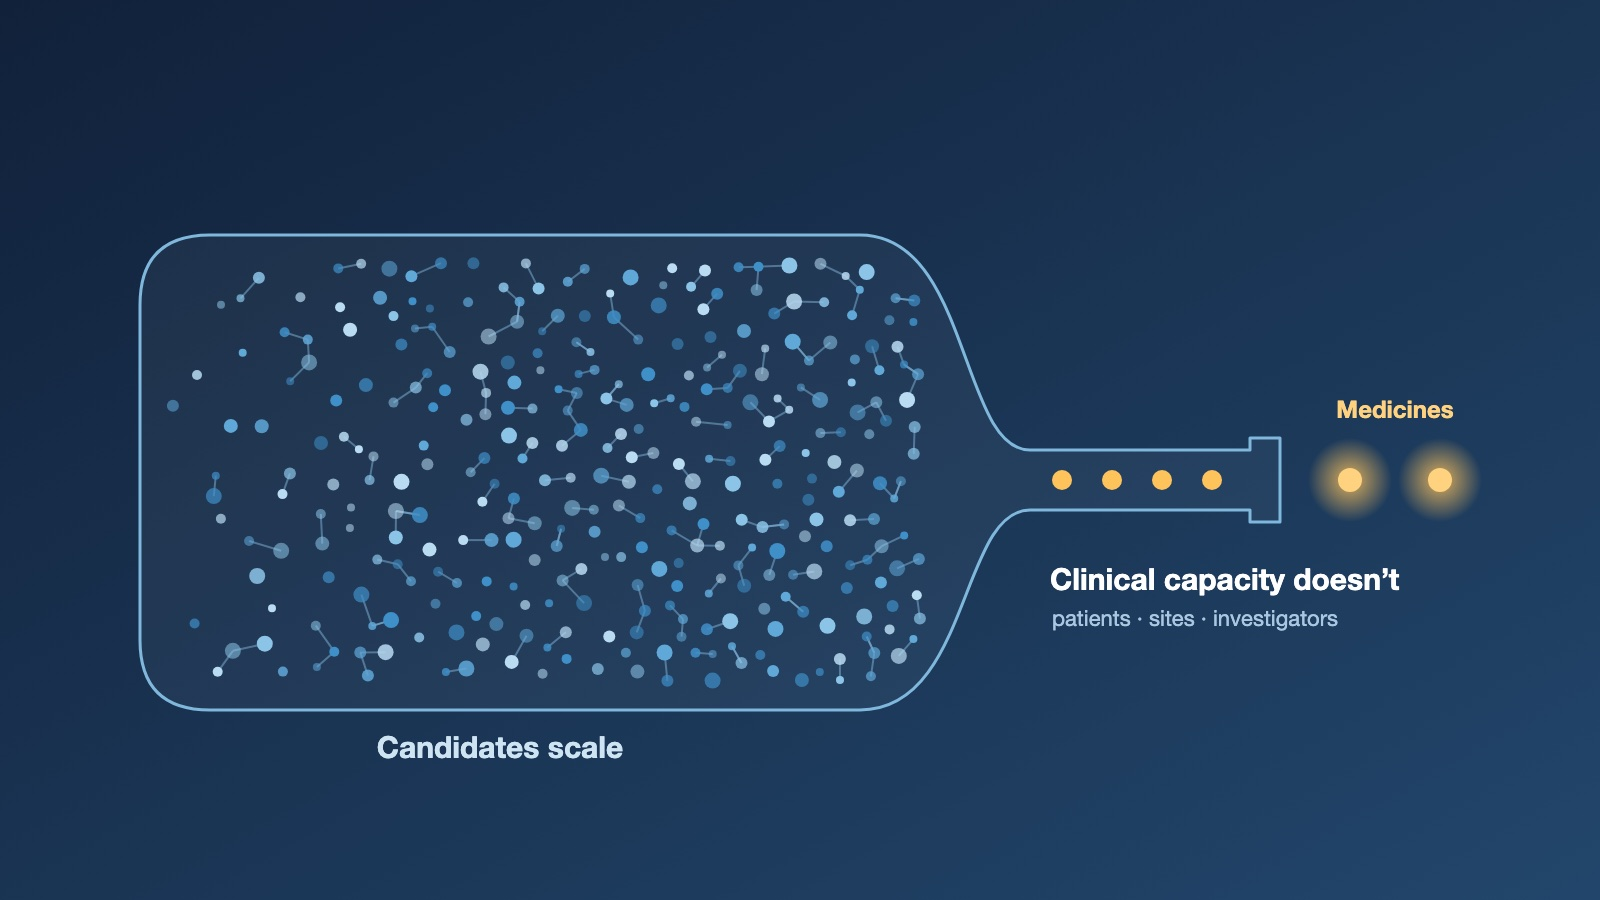
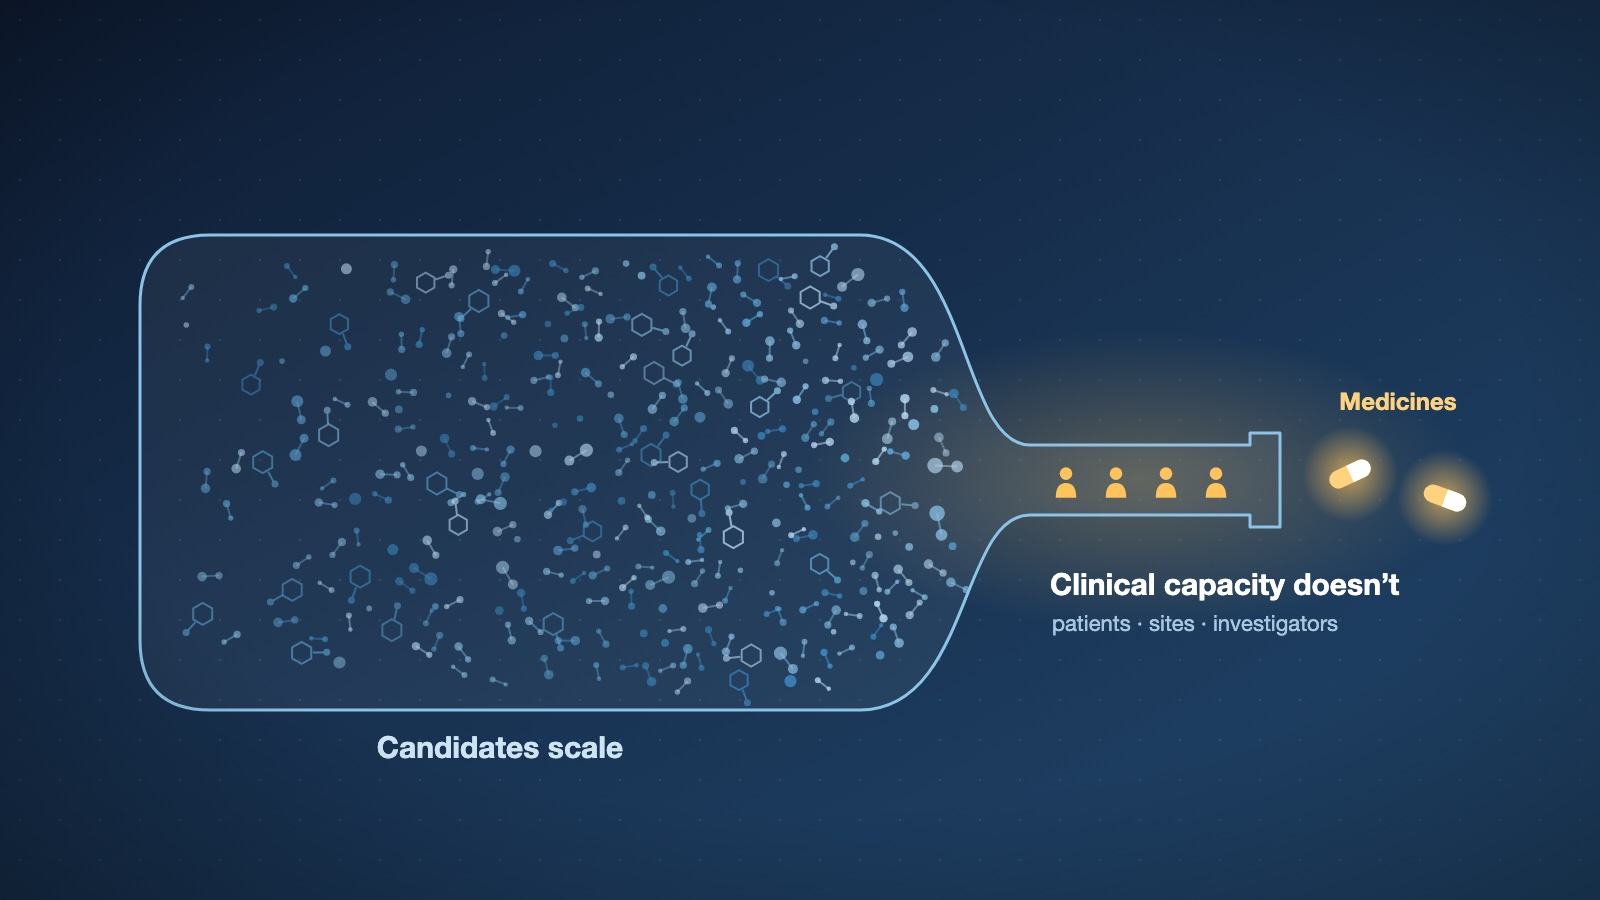
Update AG018 cover and add two diagrams
New cover illustration, plus a diagram of the four questions that meet
in protocol design and a one-page summary of the five questions and
the now/next/not yet verdict.

diff --git a/docs/AG018_bottleneck_clinic.html b/docs/AG018_bottleneck_clinic.html
@@ -77,8 +77,10 @@
 <li><em>How many patients does a trial need?</em> Prognostic models built on historical data, often called digital twins of trial participants, can make trials smaller without inflating the risk of a false-positive result. The EMA qualified one such method in 2022 (<a href="https://www.ema.europa.eu/en/documents/regulatory-procedural-guideline/qualification-opinion-prognostic-covariate-adjustment-procovatm_en.pdf" target="_blank" rel="noopener noreferrer">EMA, 2022</a>).</li>
 <li><em>Where will they come from?</em> Models trained on thousands of past trials predict enrolment rates (<a href="https://doi.org/10.1371/journal.pone.0263193" target="_blank" rel="noopener noreferrer">Bieganek et al., 2022</a>) and rank sites by expected recruitment (<a href="https://doi.org/10.1371/journal.pone.0300109" target="_blank" rel="noopener noreferrer">Hulstaert et al., 2024</a>).</li>
 </ul>
+<p><img src="./img/ag018_img001.jpg" alt="Diagram: four questions (which molecules deserve a trial, who can take part, how many patients are needed, where they will come from) all feed into protocol design."></p>
 <p>Protocol design is where these questions meet. Every assessment added to a protocol is a cost that participants pay at every visit, sometimes for years, and retention starts with study design (<a href="AG015_EUNL_meeting.html">The Room Where the Experiment Lives</a>). None of these models should make the call; each can make it better informed. This work is also harder than the &quot;now&quot; list: feedback loops are long, historical data carries historical biases, and the decisions it informs are among the most consequential in a programme. That is a reason to start carefully, not a reason to wait.</p>
 <p><strong>Not yet: AI that makes the decision.</strong> Ethics approvals, endpoint adjudication, eligibility calls. Not because AI could never help with them, but because accountability has to stay with a person who can explain the decision. The ethics-review example got the division right: AI prepares the package; people decide.</p>
+<p><img src="./img/ag018_img002.jpg" alt="Summary: five questions before building, and the verdict: now, AI that focuses attention on data we already have; next, AI that helps decide how patients are spent; not yet, AI that makes the decision."></p>
 <h2>Scale what works</h2>
 <p>At the same conference, a pharma venture investor described how the industry is now investing not only in medicines but in the AI tools that help develop them, following a simple sequence: identify needs, find partners, test solutions, scale what works.</p>
 <p>Who builds is part of that decision. In <em>AI for Good</em>, Josh Tyrangiel describes how Tomas Mihaljevic, the CEO of Cleveland Clinic, sees the two ways health-care organisations usually fail at digital transformation. In the first, keen internal staff are set loose building products of their own. &quot;We have not developed a single product that anyone has ever used,&quot; Mihaljevic says. In the second, executives meet their counterparts at Microsoft or Google, agree on areas to collaborate, and nothing happens: &quot;No one owns the initiative.&quot; What has worked instead is taking problems inside the clinic to AI partners with &quot;a relatively narrow field of focus&quot;, often smaller companies that need Cleveland Clinic more than it needs them, without ever becoming a passive customer. The clinic deploys AI around its critical processes rather than the other way round, and its clinicians work directly with the technical teams to design, test and implement. As Tyrangiel puts it: &quot;Nothing gets a green light without a lengthy pilot.&quot;</p>

diff --git a/docs/AG018_bottleneck_clinic.md b/docs/AG018_bottleneck_clinic.md
@@ -53,9 +53,13 @@ When I think about what belongs on a roadmap, these are the questions I keep com
 - *How many patients does a trial need?* Prognostic models built on historical data, often called digital twins of trial participants, can make trials smaller without inflating the risk of a false-positive result. The EMA qualified one such method in 2022 ([EMA, 2022](https://www.ema.europa.eu/en/documents/regulatory-procedural-guideline/qualification-opinion-prognostic-covariate-adjustment-procovatm_en.pdf)).
 - *Where will they come from?* Models trained on thousands of past trials predict enrolment rates ([Bieganek et al., 2022](https://doi.org/10.1371/journal.pone.0263193)) and rank sites by expected recruitment ([Hulstaert et al., 2024](https://doi.org/10.1371/journal.pone.0300109)).
 
+![Diagram: four questions (which molecules deserve a trial, who can take part, how many patients are needed, where they will come from) all feed into protocol design.](./img/ag018_img001.jpg)
+
 Protocol design is where these questions meet. Every assessment added to a protocol is a cost that participants pay at every visit, sometimes for years, and retention starts with study design ([The Room Where the Experiment Lives](story.html?file=docs/AG015_EUNL_meeting.md)). None of these models should make the call; each can make it better informed. This work is also harder than the "now" list: feedback loops are long, historical data carries historical biases, and the decisions it informs are among the most consequential in a programme. That is a reason to start carefully, not a reason to wait.
 
 **Not yet: AI that makes the decision.** Ethics approvals, endpoint adjudication, eligibility calls. Not because AI could never help with them, but because accountability has to stay with a person who can explain the decision. The ethics-review example got the division right: AI prepares the package; people decide.
+
+![Summary: five questions before building, and the verdict: now, AI that focuses attention on data we already have; next, AI that helps decide how patients are spent; not yet, AI that makes the decision.](./img/ag018_img002.jpg)
 
 ## Scale what works
 
